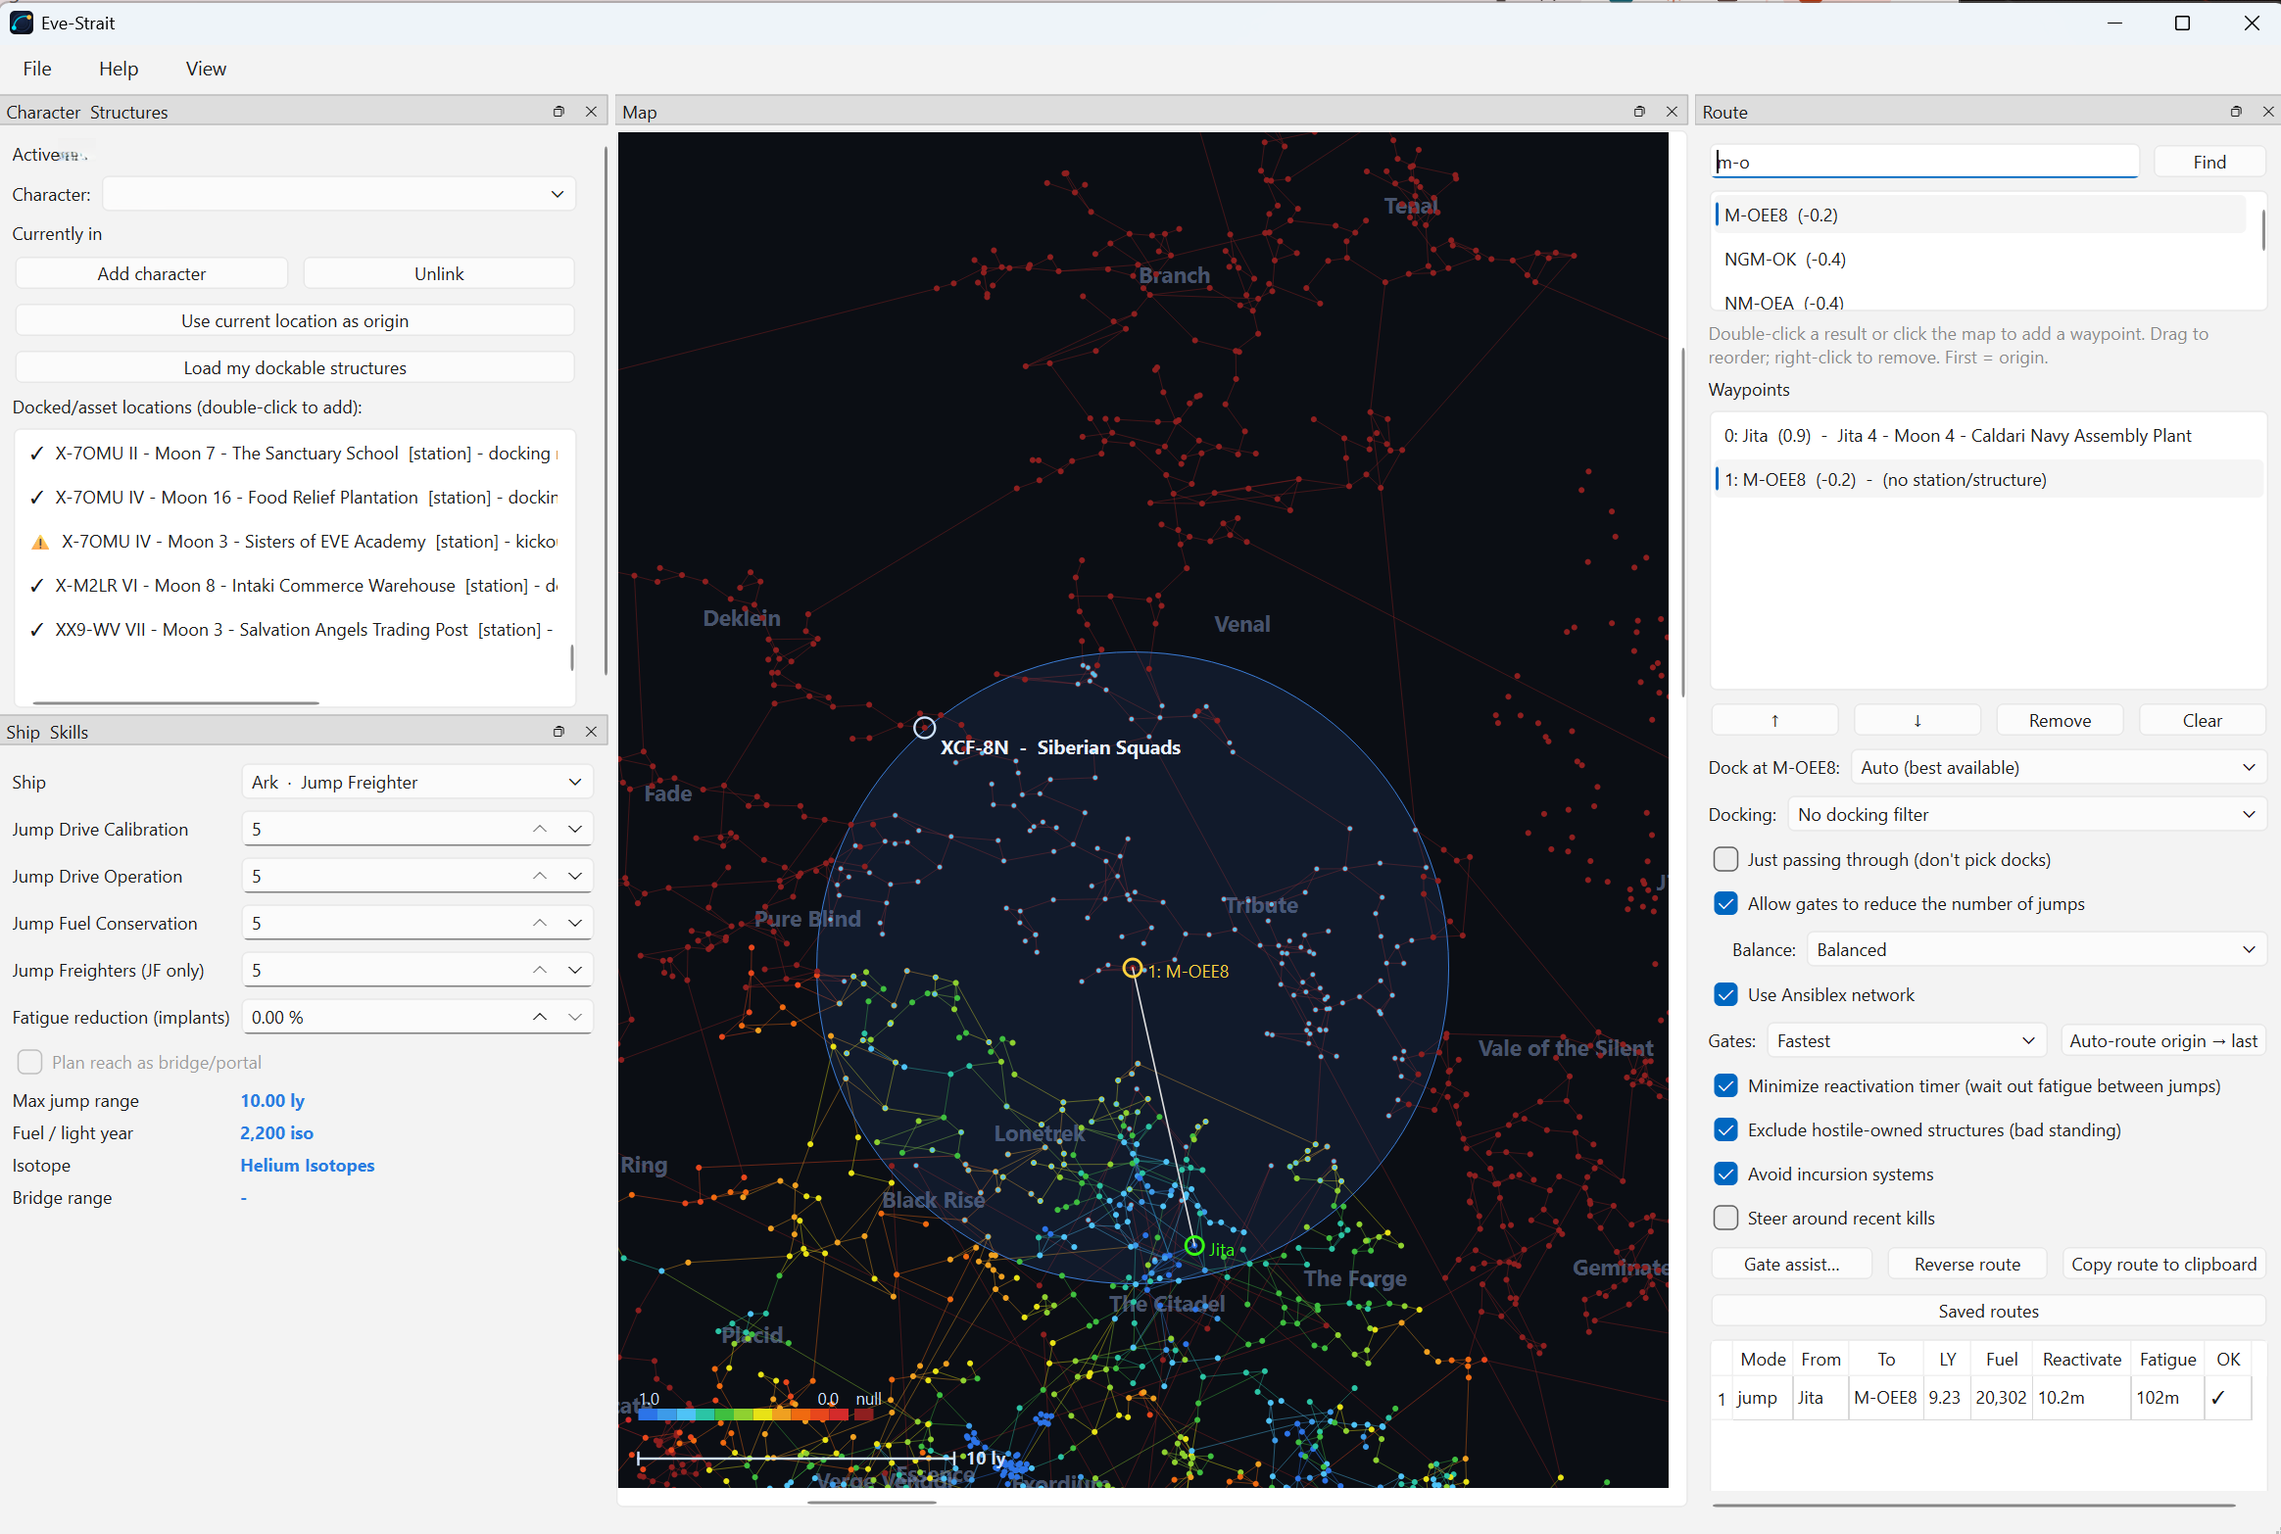
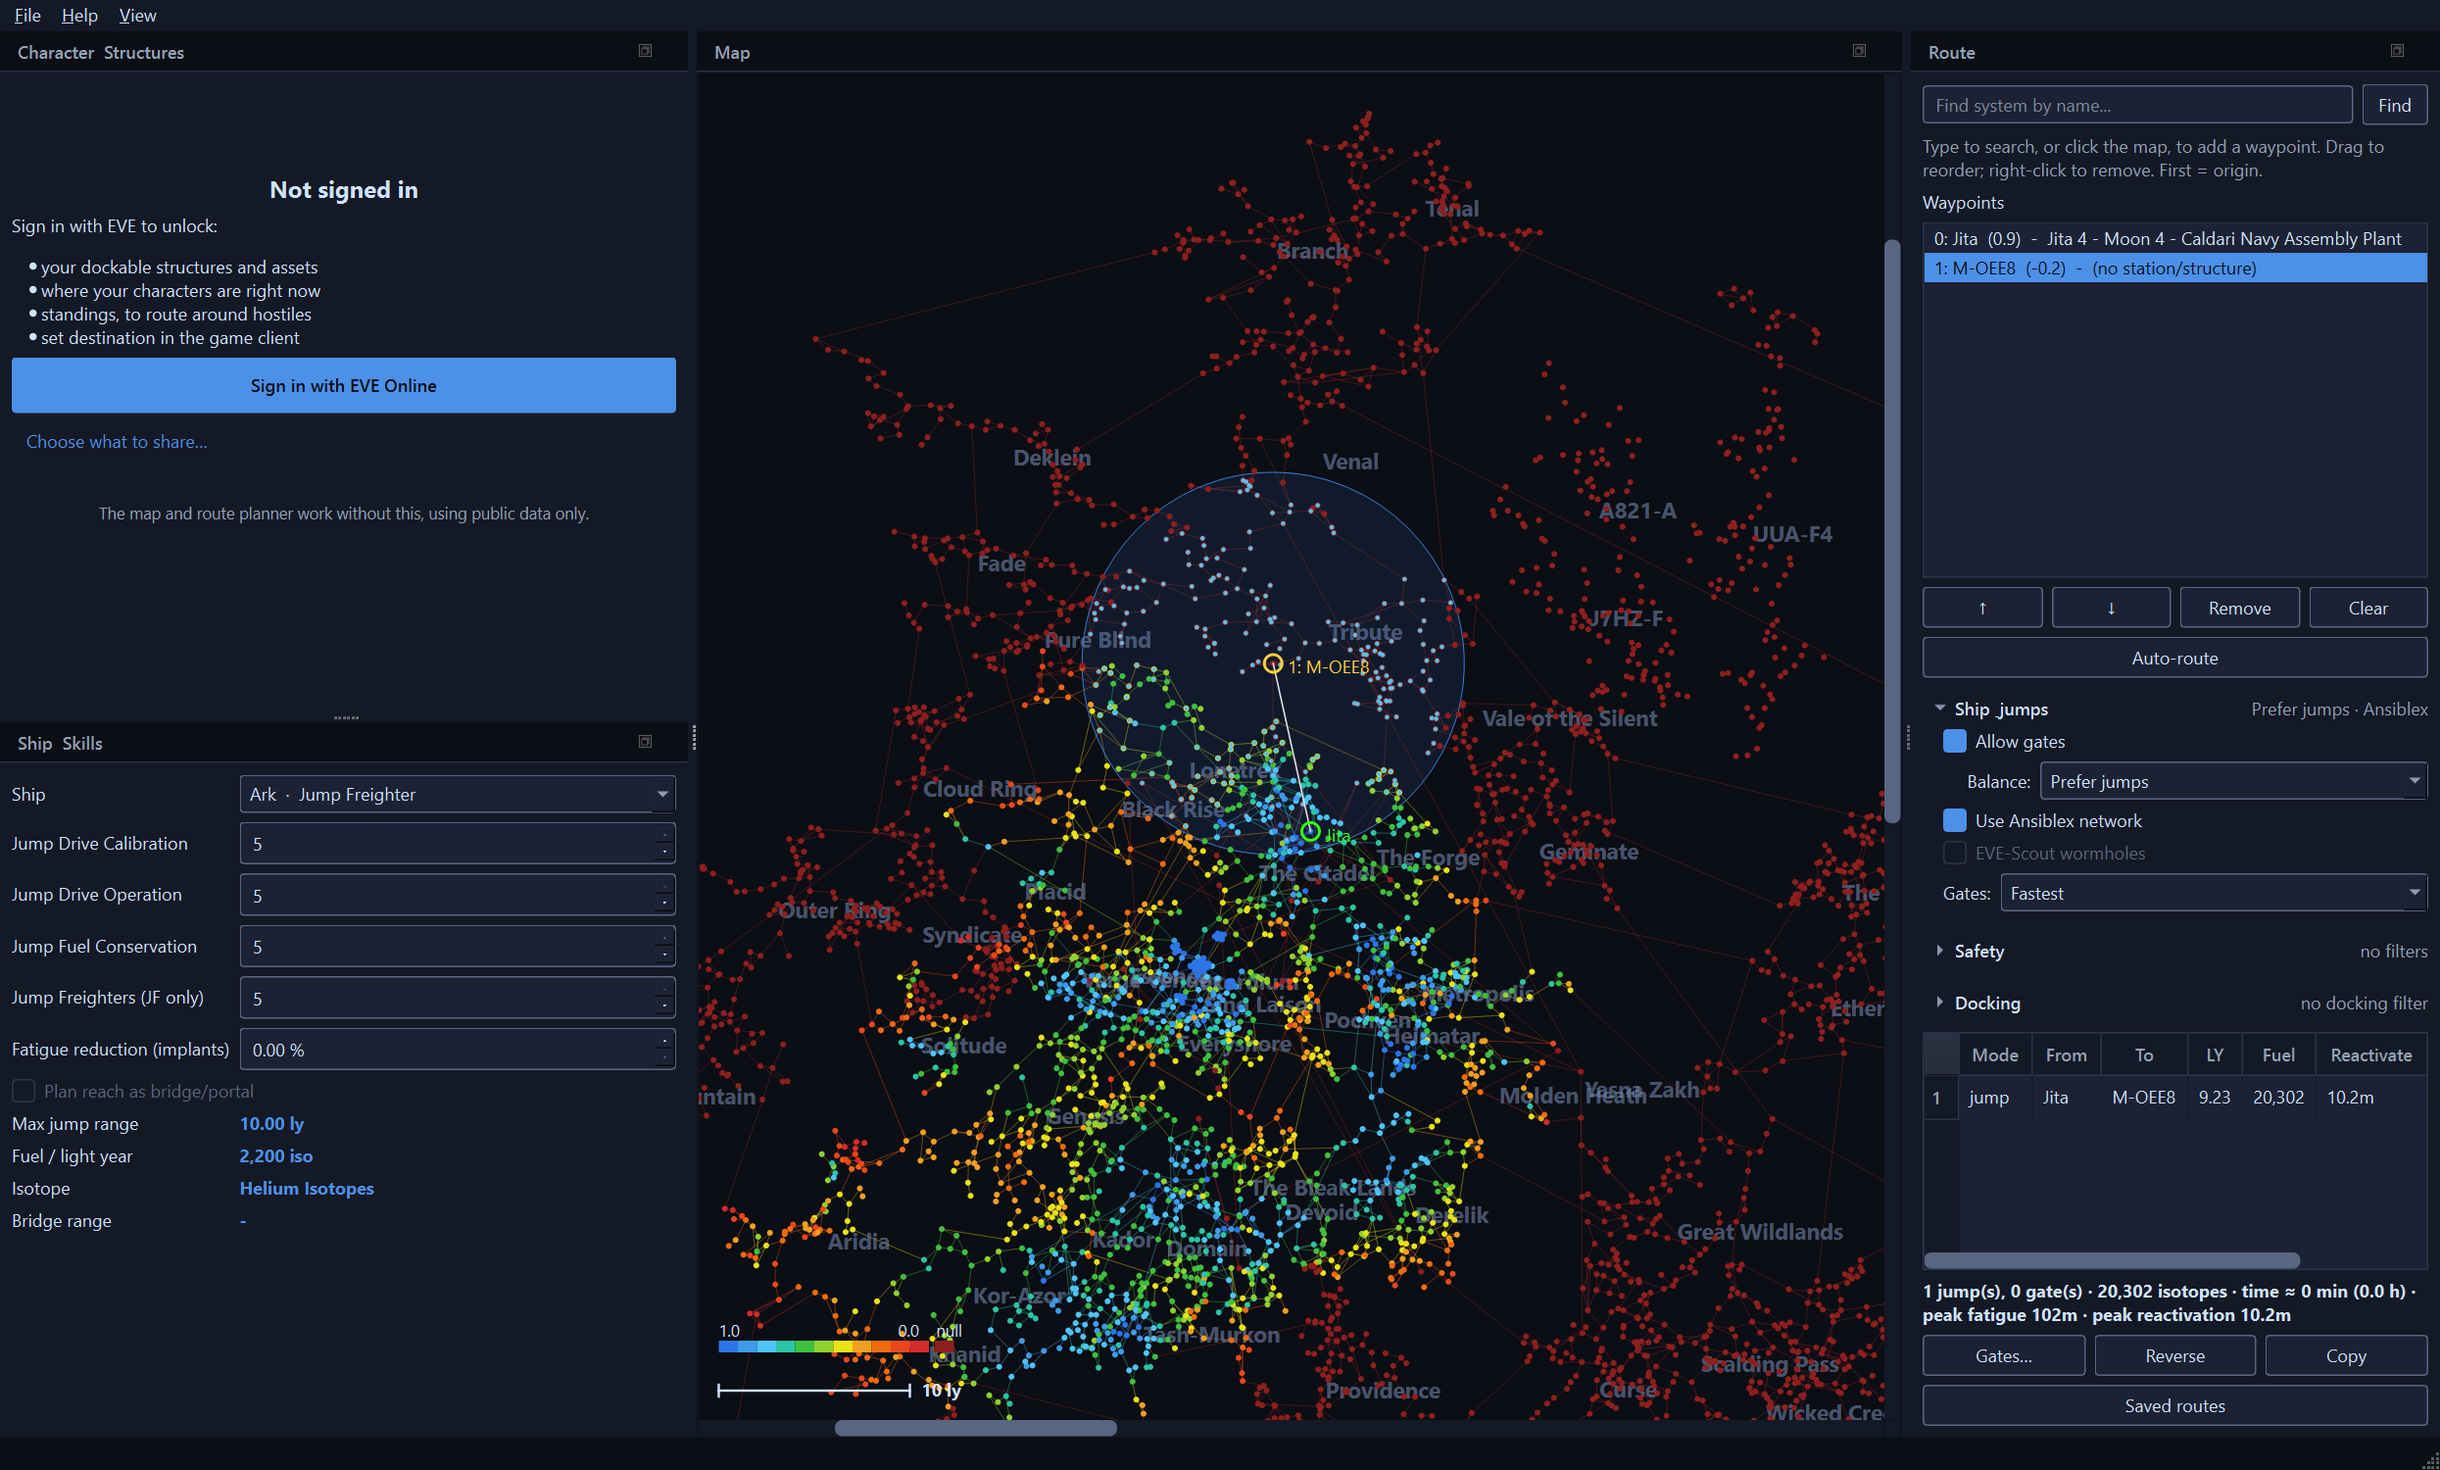
update readme

diff --git a/README.md b/README.md
@@ -10,8 +10,8 @@ actually dock.
 ![Eve-Strait planning an Ark jump from Jita to M-OEE8, with the 10 ly jump range drawn on the New Eden map](docs/screenshot.png)
 
 *Planning an Ark jump freighter run out of Jita: the blue circle is the 10 ly reach at
-JDC 5, the route panel shows fuel and the reactivation timer per leg, and the left panel
-lists the structures that character can actually dock at.*
+JDC 5, and the route panel shows fuel and the reactivation timer for the leg. Sign in and
+the left panel fills with the stations and structures that character can actually dock at.*
 
 ## Run
 
